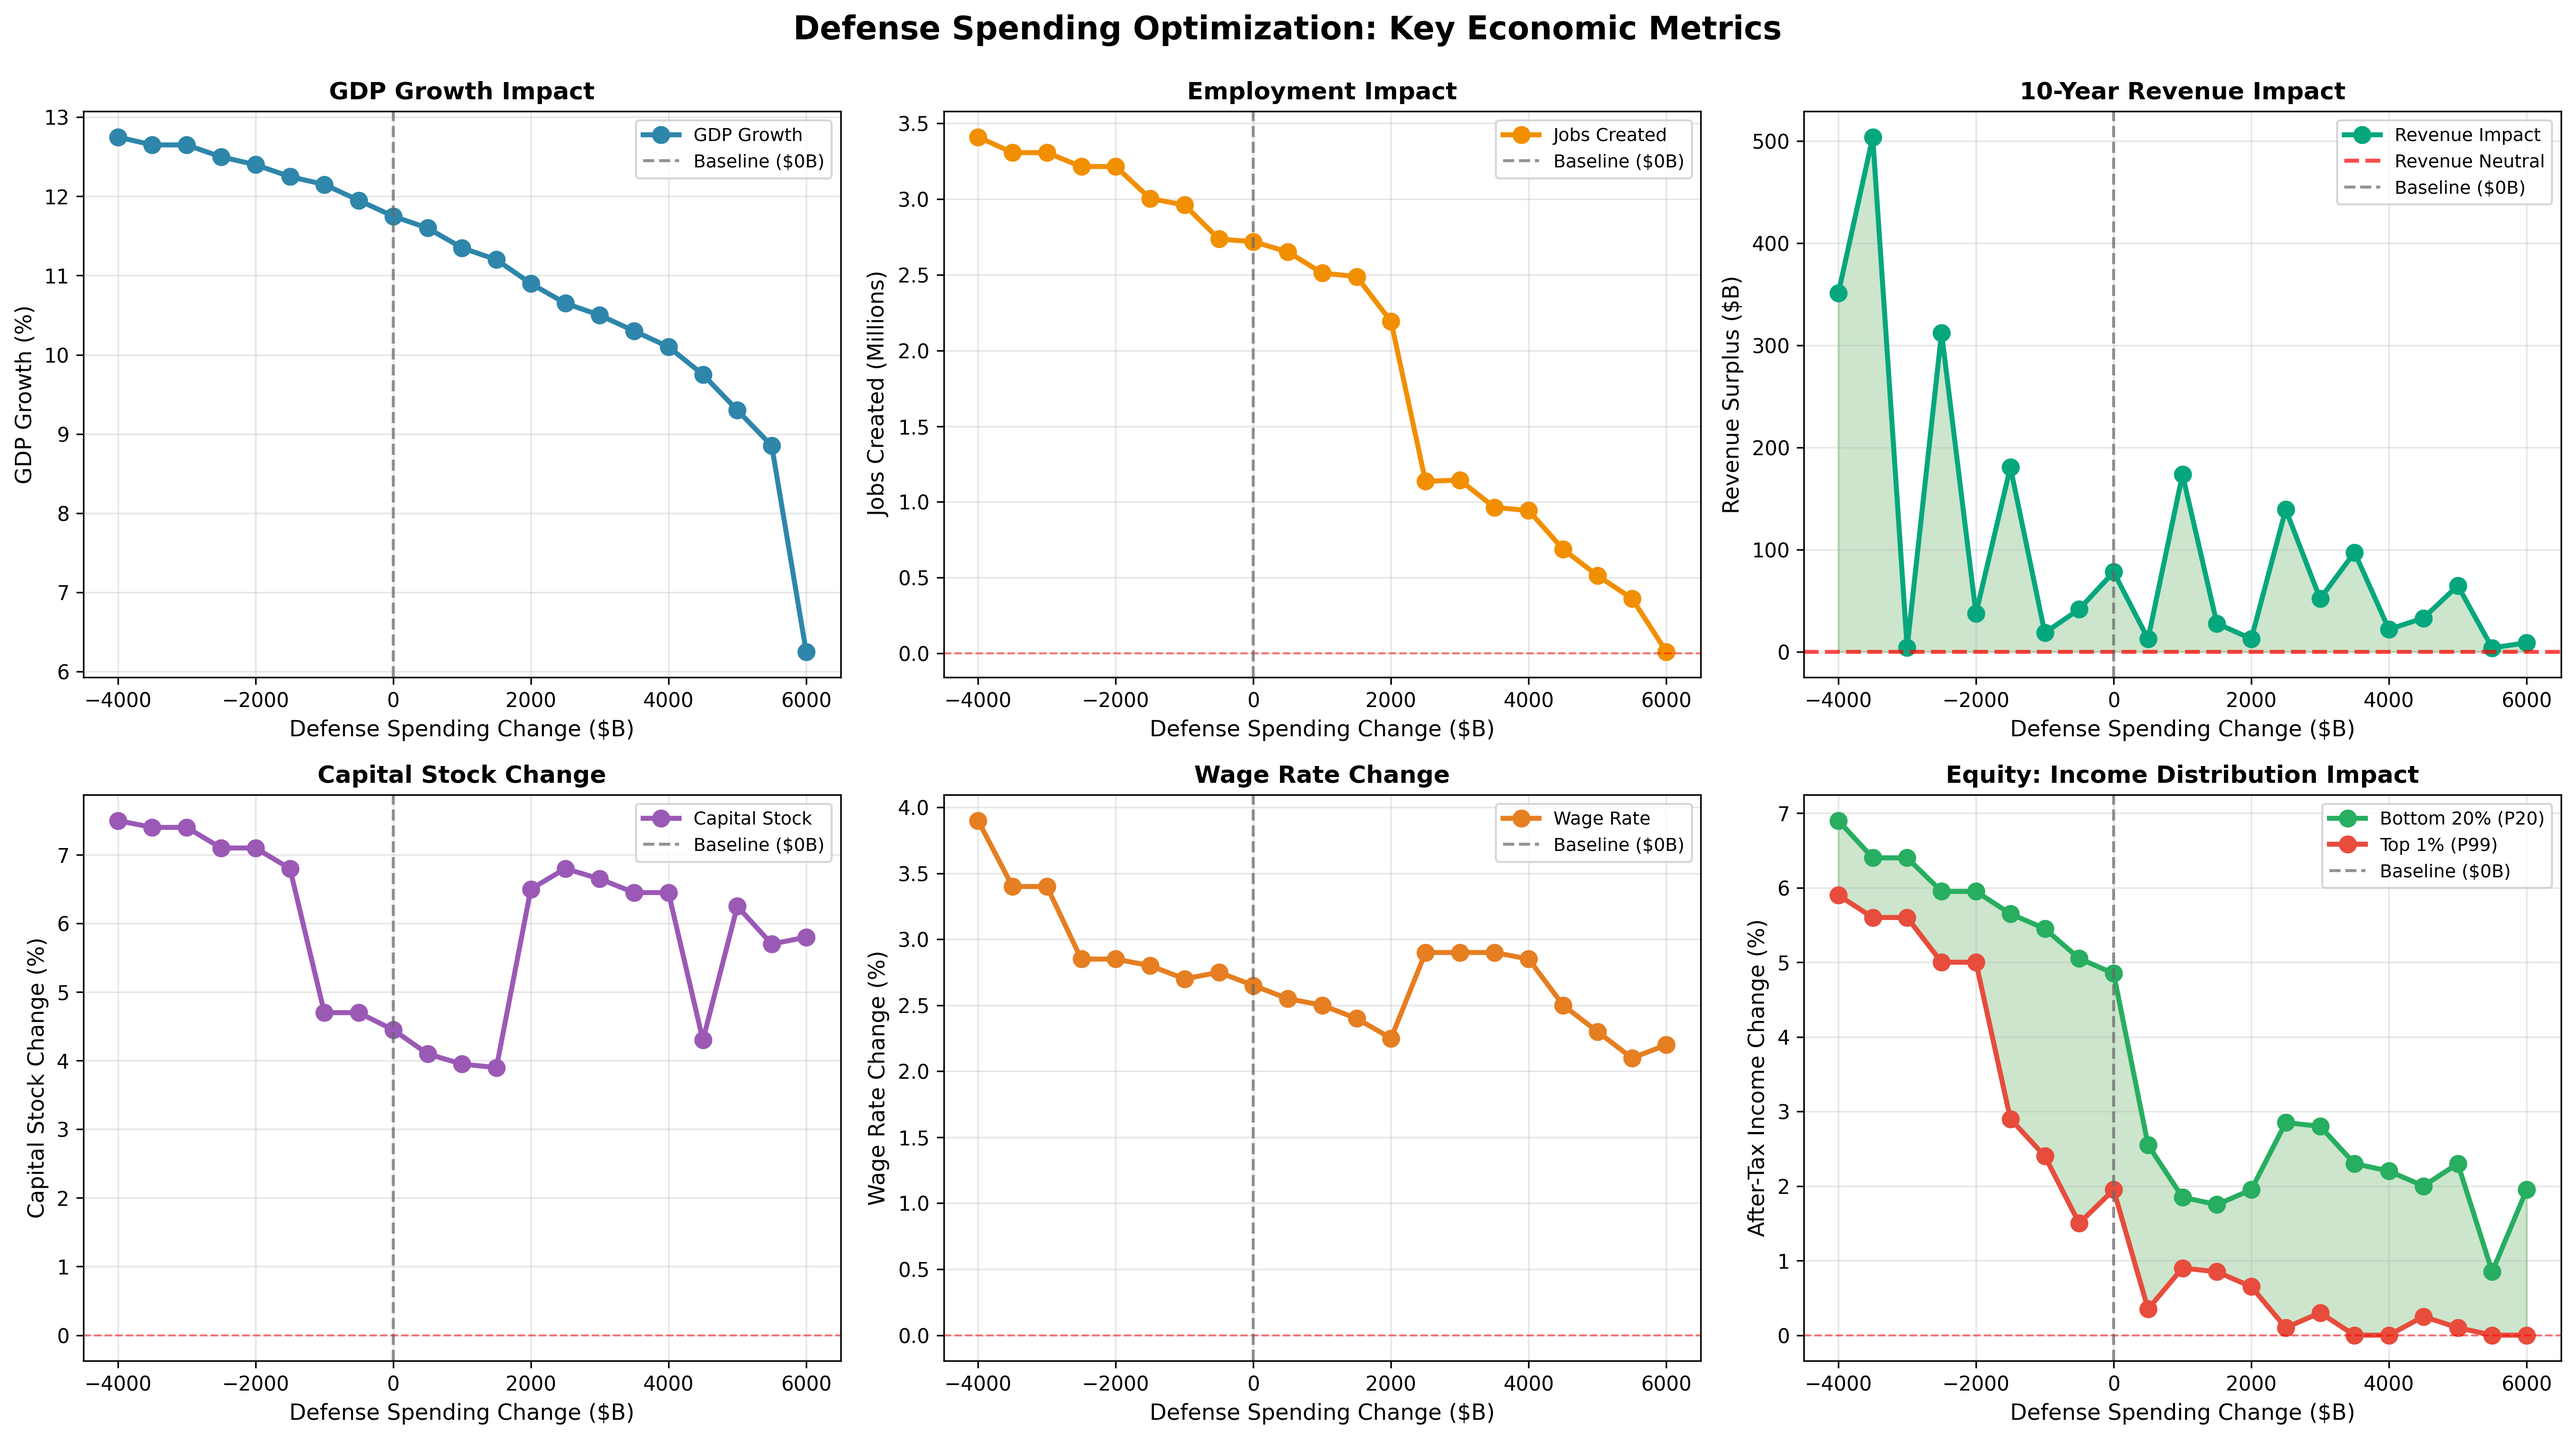
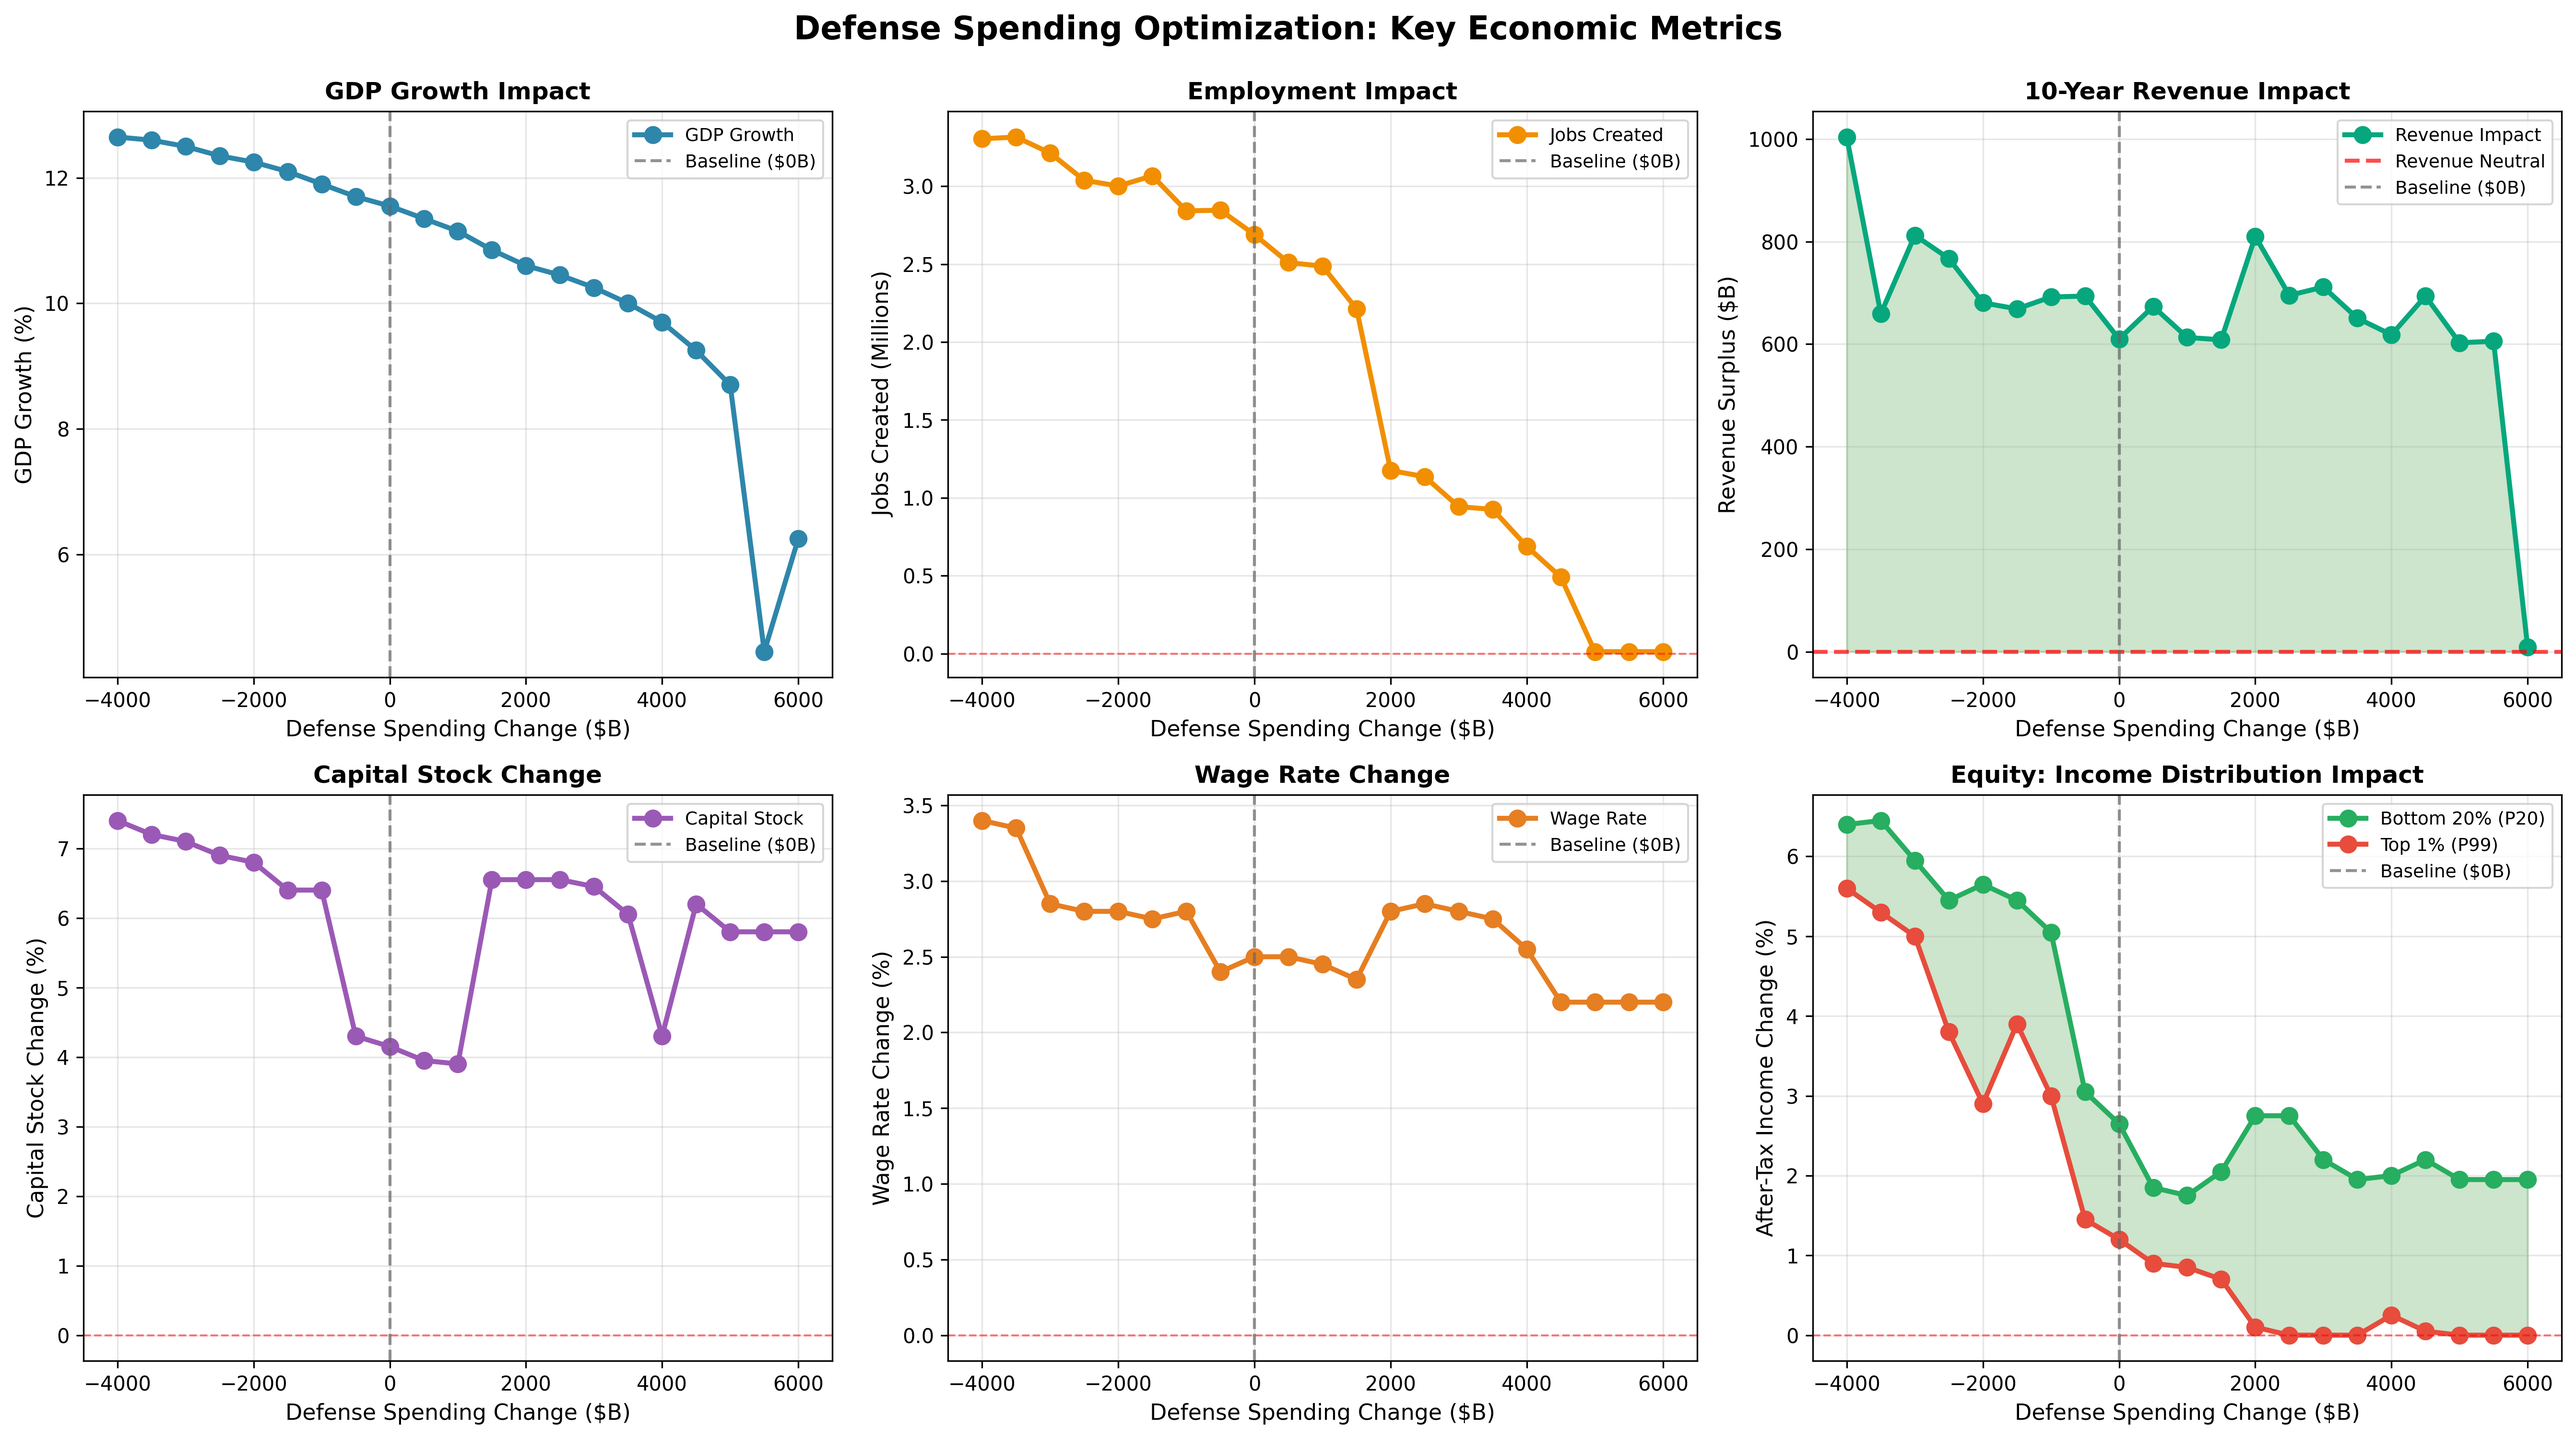
added constraint for >= 600bn surplus

diff --git a/optimizer_utils.py b/optimizer_utils.py
@@ -103,10 +103,10 @@ def add_fiscal_constraints(
     logger: SupportsDebug | None = None
 ) -> None:
     """
-    Add fiscal responsibility constraint (revenue neutrality).
+    Add fiscal responsibility constraint (revenue surplus requirement).
 
-    Requires that total dynamic revenue is non-negative, ensuring
-    the policy package doesn't increase the federal deficit.
+    Requires that total dynamic revenue is at least $600B, ensuring
+    the policy package generates a substantial revenue surplus.
 
     Args:
         model: Gurobi model to add constraints to
@@ -116,12 +116,12 @@ def add_fiscal_constraints(
         logger: Optional logger for progress messages
     """
     model.addConstr(
-        quicksum(x[i] * revenue[i] for i in indices) >= 0,
-        name="RevenueNeutrality"
+        quicksum(x[i] * revenue[i] for i in indices) >= 600,
+        name="RevenueSurplus"
     )
 
     if logger:
-        logger.debug("Added revenue neutrality constraint")
+        logger.debug("Added revenue surplus constraint: >= $600B")
 
 
 def add_economic_constraints(

diff --git a/max_gdp_defense.py b/max_gdp_defense.py
@@ -21,7 +21,7 @@ and find the absolute best one that meets all requirements. Can analyze:
 
 CONSTRAINTS (Requirements every solution must meet):
 
-1. FISCAL: Revenue neutrality - can't increase the federal deficit
+1. FISCAL: Revenue surplus of at least $600B - generates substantial surplus
 
 2. ECONOMIC: Must improve the economy across the board
    - More jobs created
@@ -164,7 +164,7 @@ def optimize_policy_selection(  # noqa: PLR0912, PLR0915
     Two-stage optimization with equity, policy, and national security constraints.
 
     Stage 1: Maximize GDP subject to all constraints
-        - Fiscal: Revenue neutrality (sum of dynamic revenue >= 0)
+        - Fiscal: Revenue surplus requirement (sum of dynamic revenue >= 600)
         - Economic: Non-negative capital stock, jobs, wage rate
         - Equity: Progressive distribution (P20, P40-60 >= P80-100, P99)
         - Income: All income groups must have non-negative after-tax income (everyone better off)
